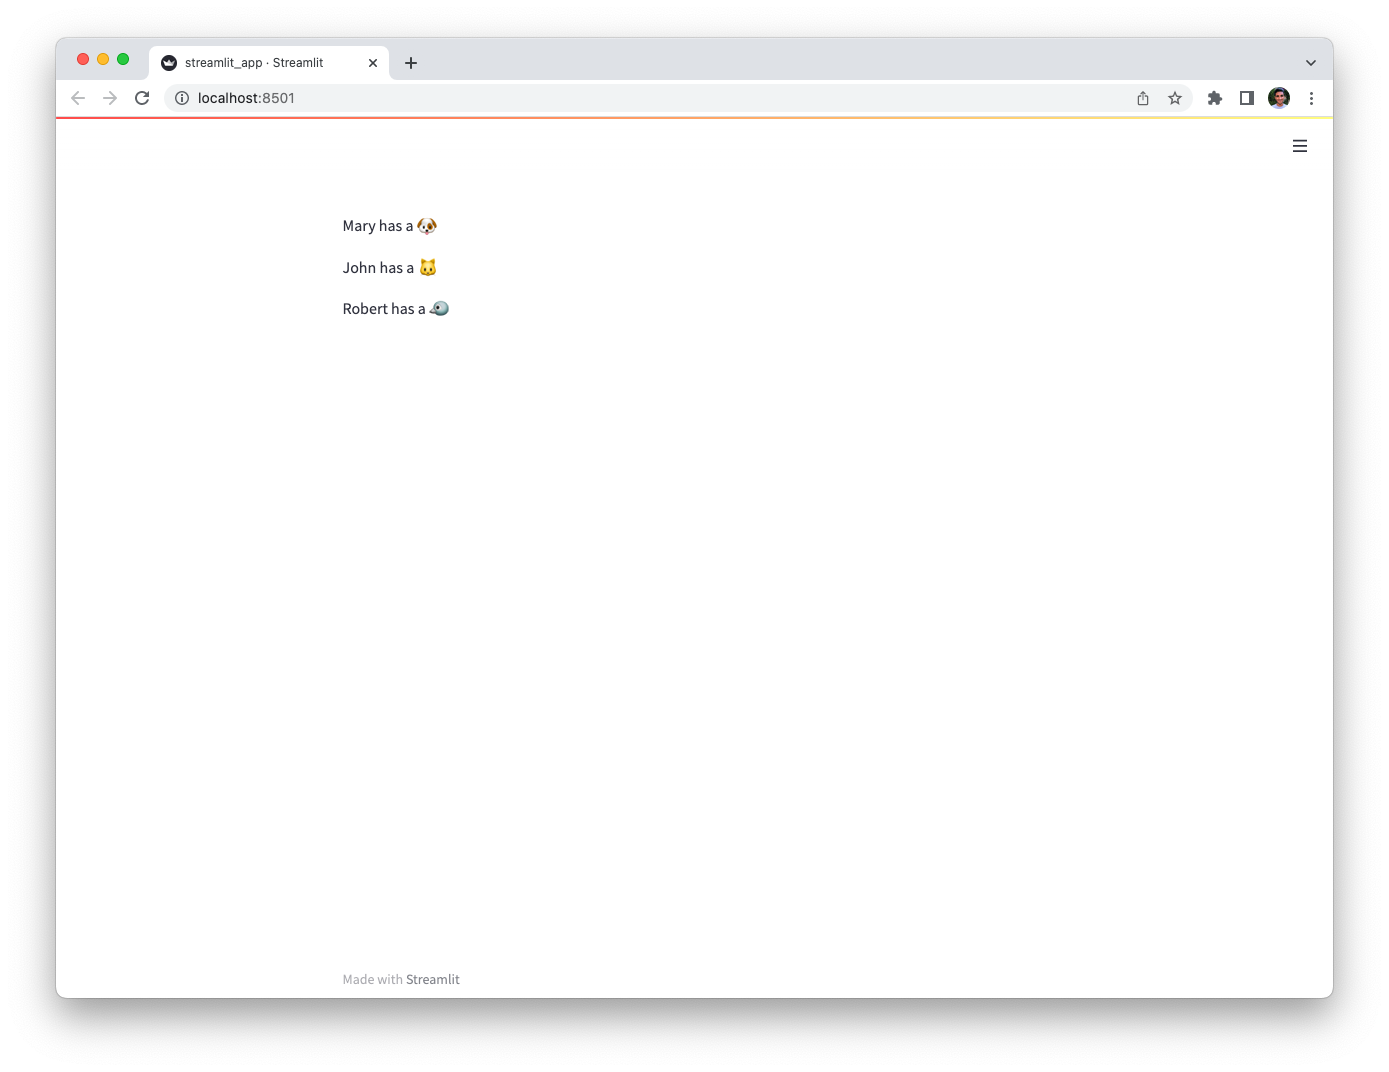
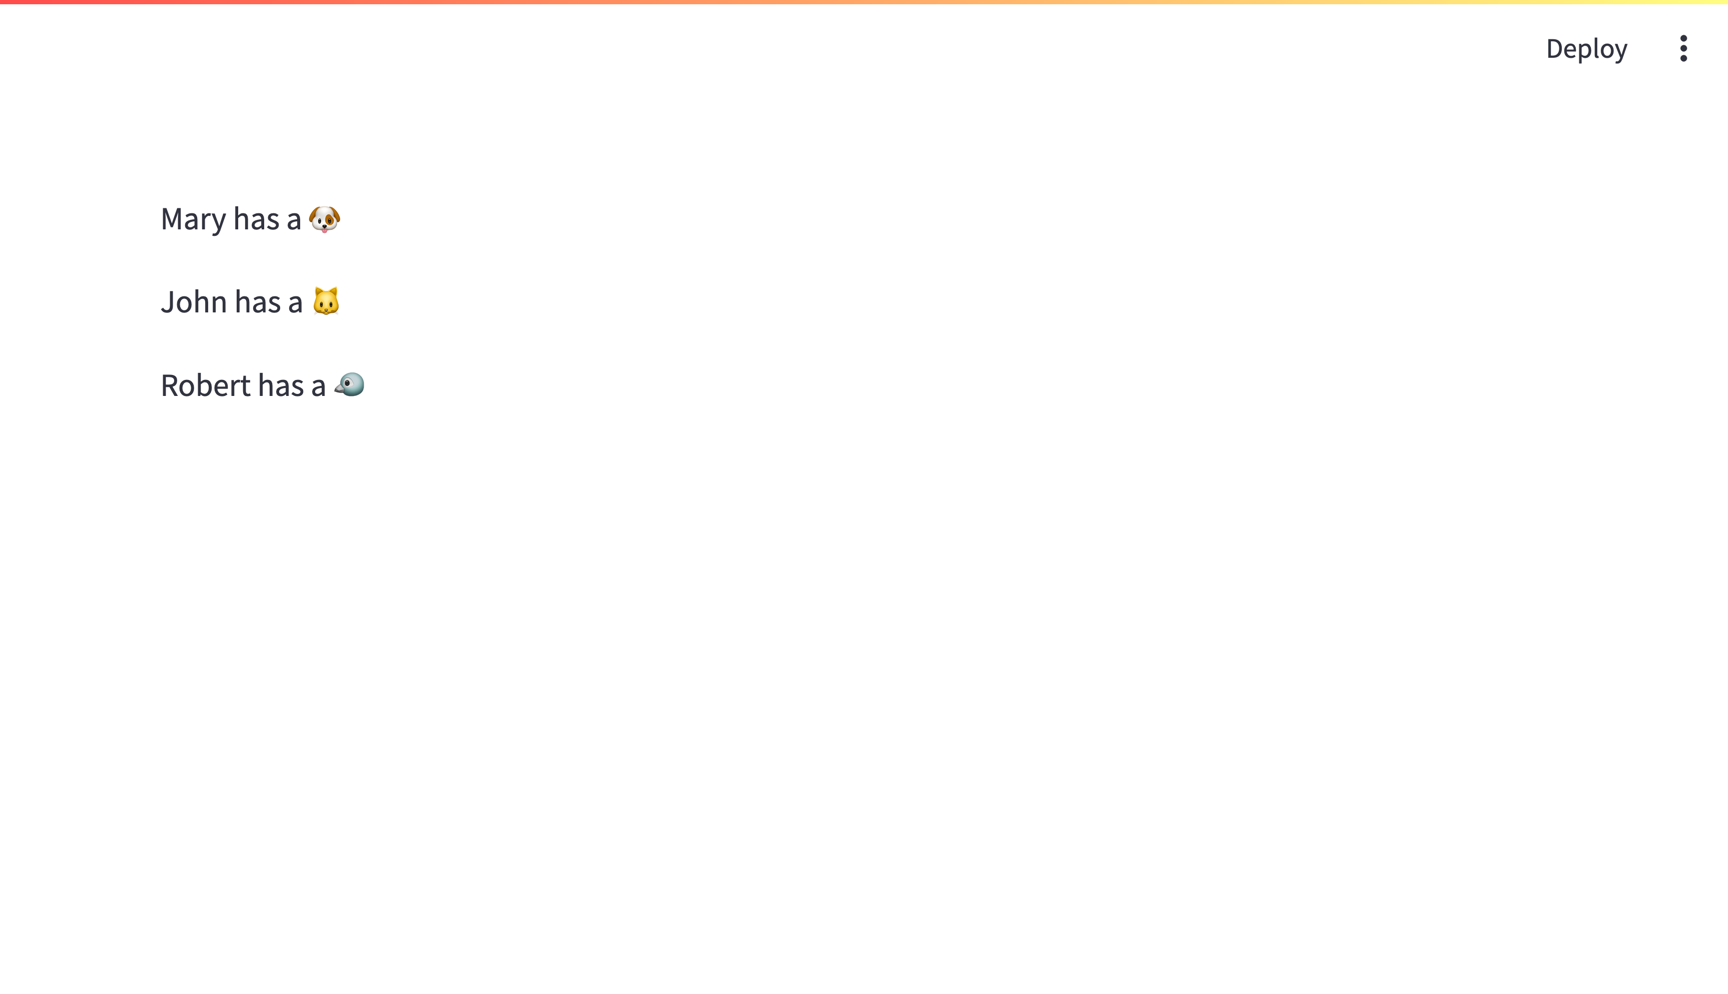
Edit to match new tutorial style

diff --git a/content/develop/tutorials/databases/neon.md b/content/develop/tutorials/databases/neon.md
@@ -7,108 +7,112 @@ slug: /develop/tutorials/databases/neon
 
 ## Introduction
 
-This guide explains how to securely access a [Neon database](https://neon.tech/) from Streamlit Community Cloud. Neon is a fully managed serverless PostgreSQL database, that separates storage and compute to offer features such as instant branching and automatic scaling.
+This guide explains how to securely access a [Neon database](https://neon.tech/) from Streamlit. Neon is a fully managed serverless PostgreSQL database that separates storage and compute to offer features such as instant branching and automatic scaling.
 
-The below example code uses [st.connection](/develop/api-reference/connections/st.connection) and Streamlit's [Secrets management](/develop/concepts/connections/secrets-management). It will **only work on Streamlit version >= 1.28**, when `st.connection` was added.
+### Prerequisites
+
+- The following packages must be installed in your Python environment:
+
+  ```txt
+  streamlit>=1.28
+  psycopg2-binary>=2.9.6
+  sqlalchemy>=2.0.0
+  ```
+
+    <Note>
+        You may use `psycopg2` instead of `psycopg2-binary`. However, building Psycopg requires a few prerequisites (like a C compiler). Because of these prequisites, `psycopg2` will not install on Community Cloud. `psycopg2-binary` is a stand-alone package that is practical for testing and development.
+    </Note>
+
+- You must have a Neon account.
+- You should have a basic understanding of [`st.connection`](/develop/api-reference/connections/st.connection) and [Secrets management](/develop/concepts/connections/secrets-management).
 
 ## Create a Neon project
 
-<Note>
-    If you already have a Neon project that you want to use, feel free to skip to the next step of adding the neon connection string to your local app secrets. 
-</Note>
+If you already have a Neon project that you want to use, feel free to [skip to the next step](#add-neon-connection-string-to-your-local-app-secrets).
 
 1. Log in to the Neon console and navigate to the [Projects](https://console.neon.tech/app/projects) section.
-2. Select an existing project or click the **New Project** button to create a new one.
-3. Choose the desired region and Postgres version for your project, then click **Create Project**.
+1. If you see a prompt to enter your project name, skip to the next step. Otherwise, click the "**New Project**" button to create a new project.
+1. Enter "Streamlit-Neon" for your project name, accept the othe default settings, and click "**Create Project**".
 
-The project is created with a ready-to-use `neondb` database, which we will connect to from Streamlit. To create some sample data, click on **SQL Editor** from the sidebar in the project page, and run the following SQL queries to create a table with some example values:
+   After Neon creates your project with a ready-to-use `neondb` database, you will be redirected to your project's Quickstart.
 
-```sql
-CREATE TABLE employees (
-  id SERIAL PRIMARY KEY,
-  name VARCHAR(100),
-  department VARCHAR(100)
-);
+1. Click on "**SQL Editor**" from the left sidebar.
+1. Replace the text in the input area with the following code and click "**Run**" to add sample data to your project.
 
-INSERT INTO employees (name, department)
-VALUES
-    ('Alice', 'Engineering'),
-    ('Bob', 'Sales'),
-    ('Carol', 'Marketing'),
-    ('David', 'Engineering');
-```
+   ```sql
+   CREATE TABLE home (
+       id SERIAL PRIMARY KEY,
+       name VARCHAR(100),
+       pet VARCHAR(100)
+   );
 
-## Add Neon connection string to your local app secrets
+   INSERT INTO home (name, pet)
+   VALUES
+       ('Mary', 'dog'),
+       ('John', 'cat'),
+       ('Robert', 'bird');
+   ```
 
-Navigate to the **Connection Details** section from your `Neon` project page to find your database connection string. It should look similar to this:
+## Add the Neon connection string to your local app secrets
 
-```bash
-postgres://alex:AbC123dEf@ep-cool-darkness-123456.us-east-2.aws.neon.tech/dbname?sslmode=require
-```
+1. Within your Neon project, click "**Dashboard**" in the left sidebar.
+1. Within the "Connection Details" tile, locate your database connection string. It should look similar to this:
 
-Your local Streamlit app will read secrets from a file `.streamlit/secrets.toml` in your app's root directory. Create this file if it doesn't exist yet and add your `Neon` connection string as shown below:
+   ```bash
+   postgresql://neondb_owner:xxxxxxxxxxxx@ep-adjective-noun-xxxxxxxx.us-east-2.aws.neon.tech/neondb?sslmode=require
+   ```
 
-```toml
-# .streamlit/secrets.toml
+1. If you do not already have a `.streamlit/secrets.toml` file in your app's root directory, create an empty secrets file.
+1. Copy your connection string and add it to your app's `.streamlit/secrets.toml` file as follows:
 
-[connections.neon]
-url="NEON_DB_CONNECTION_STRING"
-```
+   ```toml
+   # .streamlit/secrets.toml
 
-Make sure you quote the `Neon` connection string so the `TOML` parser doesn't run into decoding issues.
+   [connections.neon]
+   url="postgresql://neondb_owner:xxxxxxxxxxxx@ep-adjective-noun-xxxxxxxx.us-east-2.aws.neon.tech/neondb?sslmode=require"
+   ```
 
-<Important>
-    Add this file to `.gitignore` and don't commit it to your GitHub repo!
-</Important>
-
-## Copy your app secrets to the cloud
-
-As the `secrets.toml` file above is not committed to GitHub, you need to pass its content to your deployed app (on Streamlit Community Cloud) separately.
-
-Go to your [Streamlit workspace](https://share.streamlit.io/) and after navigating to the app's settings, click on the **Secrets** tab. Copy the content of `secrets.toml` into the text area. More information is available at [Secrets management](/deploy/streamlit-community-cloud/deploy-your-app/secrets-management).
-
-![Secrets manager screenshot](/images/databases/edit-secrets.png)
-
-## Add dependencies to your requirements file
-
-Add the [psycopg2-binary](https://www.psycopg.org/) and [SQLAlchemy](https://github.com/sqlalchemy/sqlalchemy) packages to your `requirements.txt` file, preferably with the latest versions. This is necessary for connecting to the Neon database:
-
-```bash
-# requirements.txt
-
-psycopg2-binary>=2.9.6
-sqlalchemy>=2.0.0
-```
+   <Important>
+       Add this file to `.gitignore` and don't commit it to your GitHub repo!
+   </Important>
 
 ## Write your Streamlit app
 
-Copy the code below to your Streamlit app and run it.
+1. Copy the code below to your Streamlit app and save it.
 
-```python
-# streamlit_app.py
+   ```python
+   # streamlit_app.py
 
-import streamlit as st
+   import streamlit as st
 
-# Initialize connection.
-conn = st.connection("neon", type="sql")
+   # Initialize connection.
+   conn = st.connection("neon", type="sql")
 
-# Perform query.
-df = conn.query('SELECT * FROM employees;', ttl="10m")
+   # Perform query.
+   df = conn.query('SELECT * FROM home;', ttl="10m")
 
-# Print results.
-for row in df.itertuples():
-    st.write(f"{row.name} works in the {row.department} department.")
-```
+   # Print results.
+   for row in df.itertuples():
+       st.write(f"{row.name} has a :{row.pet}:")
+   ```
 
-The `st.connection` object above handles secrets retrieval, setup, query caching and retries.
+   The `st.connection` object above handles secrets retrieval, setup, query caching and retries.
 
-By default, `query()` results are cached without expiring. Setting the `ttl` parameter to `"10m"` ensures the query result is cached for no longer than 10 minutes. You can also set `ttl=0` to disable caching. Learn more in [Caching](/develop/concepts/architecture/caching).
+   By default, `query()` results are cached without expiring. Setting the `ttl` parameter to `"10m"` ensures the query result is cached for no longer than 10 minutes. You can also set `ttl=0` to disable caching. Learn more in [Caching](/develop/concepts/architecture/caching).
 
-If everything worked out (and you used the example table we created above), your app should display the following text:
+1. Run your Streamlit app.
 
-```text
-Alice works in the Engineering department.
-Bob works in the Sales department.
-Carol works in the Marketing department.
-David works in the Engineering department.
-```
+   ```bash
+   streamlit run streamlit_app.py
+   ```
+
+   If everything worked out (and you used the example table we created above), your app should dlook like this:
+
+   ![Finished app screenshot](/images/databases/streamlit-app.png)
+
+## Connecting to a Neon database from Community Cloud
+
+This tutorial assumes a local Streamlit app, but you can also connect to a Neon database from apps hosted on Community Cloud. The additional steps are:
+
+- Add a [`requirements.txt`](/deploy/streamlit-community-cloud/deploy-your-app/app-dependencies) file to your repo. Include all the packages listed in [Prequisites](#prerequisites) and any other dependencies.
+- [Add your secrets](/deploy/streamlit-community-cloud/deploy-your-app/secrets-management#deploy-an-app-and-set-up-secrets) to your app in Community Cloud.

diff --git a/content/develop/tutorials/databases/snowflake.md b/content/develop/tutorials/databases/snowflake.md
@@ -114,7 +114,7 @@ See `st.connection` above? This handles secrets retrieval, setup, query caching 
 
 If everything worked out (and you used the example table we created above), your app should look like this:
 
-![Finished app screenshot](/images/databases/snowflake-app.png)
+![Finished app screenshot](/images/databases/streamlit-app.png)
 
 ### Using a Snowpark Session
 
